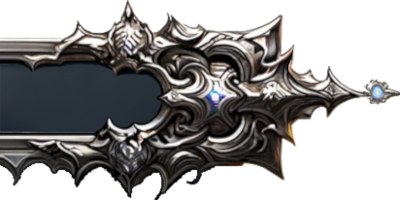
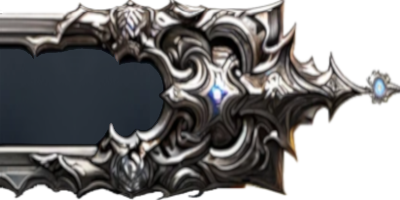
Added wider border

diff --git a/src/components/nav-bar/nav-bar.jsx b/src/components/nav-bar/nav-bar.jsx
@@ -103,7 +103,7 @@ export const NavBar = () => {
                         let capPath = path.charAt(0).toUpperCase() + path.slice(1);
                         return (
                             <div className='nb-skillbar-border-right'  key={index}>
-                                <img src={'Nav-Bar-Icon-Border-100-200.png'} />
+                                <img src={'Nav-Bar-Icon-Border-150-200.png'} />
                                 <Link to={`./${path}`} aria-label={`Navigate to ${capPath}`} key={index}>
                                     <img src={`${capPath}-Icon-300-300.png`} className='nb-skillbar-icon nb-icon-right'  style={{transform: 'rotate(-90deg)'}} alt={`Button to ${capPath}`} onDragStart={cancelDefaultDrag}/>
                                 </Link>
@@ -135,7 +135,7 @@ export const NavBar = () => {
                     contactRoutes.map((info, index) => {
                         return (
                             <div className='nb-skillbar-border'  key={index}>
-                                <img src={'Nav-Bar-Icon-Border-100-200.png'}/>
+                                <img src={'Nav-Bar-Icon-Border-150-200.png'}/>
                                 <Link to={info[1]} aria-label={`Navigate to Sean's ${info[1]} page`} target='_blank' key={index}>
                                     <img src={`${info[0]}-Icon-300-300.png`} className='nb-skillbar-icon nb-icon-bottom' onDragStart={cancelDefaultDrag}/>
                                 </Link>

diff --git a/src/components/nav-bar/nav-bar.scss b/src/components/nav-bar/nav-bar.scss
@@ -14,7 +14,7 @@ $nav-left: max(10px, 15vw);
 $nav-top: 10px;
 
 //Skillbar Icon
-$skillbar-icon-size: calc($profile-image-size * 35 / 100);
+$skillbar-icon-size: calc($profile-image-size * 40 / 100);
 
 /*
 *   Health Bar
@@ -109,9 +109,6 @@ $skillbar-icon-size: calc($profile-image-size * 35 / 100);
     display: flex;
     top: calc($nav-top + $profile-image-size + 250px);
     right: calc($nav-left + $skillbar-icon-size - 200px);
-    //Temporary Dimensions
-//    width: calc($skillbar-icon-size + 10px);
-//    height: calc($skillbar-icon-size * 5);
 }
 
 .nb-skillbar-icon:hover {
@@ -140,7 +137,7 @@ $skillbar-icon-size: calc($profile-image-size * 35 / 100);
 
 
 .nb-skillbar-border-right {
-    height:calc($skillbar-icon-size * 3.5);
+    height:calc($skillbar-icon-size * 2.5);
     width:calc($skillbar-icon-size * 1.5);
     position: relative;
     display: flex;
@@ -150,7 +147,7 @@ $skillbar-icon-size: calc($profile-image-size * 35 / 100);
 
 .nb-skillbar-border {
     width:calc($skillbar-icon-size * 1.5);
-    height:calc($skillbar-icon-size * 3.5);
+    height:calc($skillbar-icon-size * 2.5);
     position: relative;
     display: flex;
     align-items: center;
@@ -170,5 +167,5 @@ $skillbar-icon-size: calc($profile-image-size * 35 / 100);
 }
 
 .nb-skillbar-end {
-    height:calc($skillbar-icon-size * 3.5);
+    height:calc($skillbar-icon-size * 2.5);
 }
